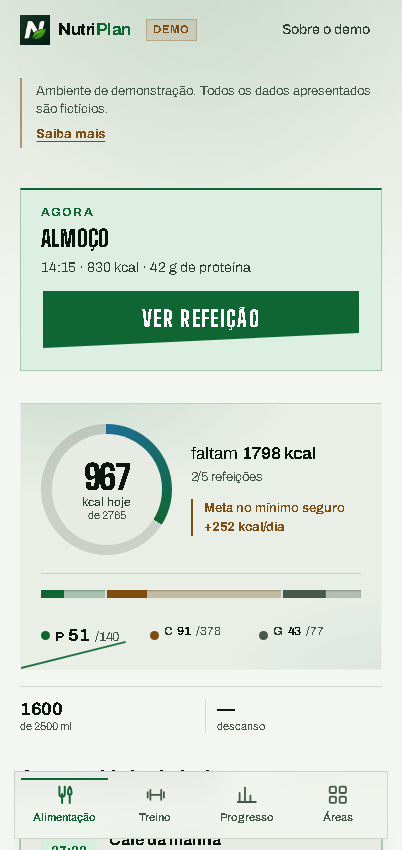
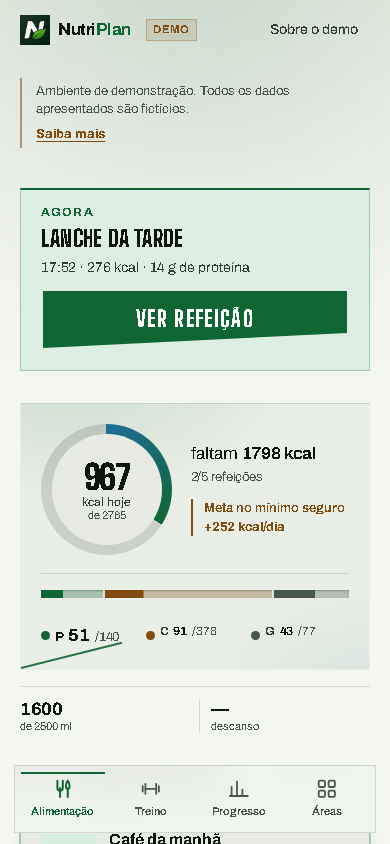
Landing: comando que regenera as capturas + trava de frescor
Decisão 3 da avaliação de UX (20/09/2026): as três provas da landing são
screenshots do demo, e screenshot envelhece quando a tela muda. Agora há um
comando de gestão que as regenera e um teste que reprova quando elas ficam
velhas atrás do `app.css`.

- `manage.py capturas_landing` (plans/management/commands): regenera as três
  a 390 px, tema Papel (claro), pelo navegador de QA (scripts/qa/nav.py, CDP),
  achando a ficha por link. Por padrão captura da PRODUÇÃO (o demo está sempre
  no ar); `--base-url` aponta para outro lugar. Precisa de um Chrome, então
  NÃO roda no build gratuito do Render (sem navegador lá) — é comando local/CI
  antes de recomitar as imagens.
- `plans/test_capturas_landing.py`: reprova quando o último commit do
  `app.css` é mais de 14 dias mais NOVO que a captura mais velha (data do
  COMMIT, não mtime). Sabotagem confirmada (tolerância negativa → vermelho).
- As três capturas foram regeneradas a 390 px (eram 402), e o template
  acompanhou (width/height 390×844).

diff --git a/templates/plans/landing.html b/templates/plans/landing.html
@@ -44,7 +44,7 @@
   {% endcomment %}
   <figure class="card landing__prova">
     <img class="landing__prova__img" src="{% static 'img/landing/prova-dia.png' %}"
-         alt="Tela do dia: refeições, calorias, água e o treino de hoje numa lista só." width="402" height="850" loading="lazy">
+         alt="Tela do dia: refeições, calorias, água e o treino de hoje numa lista só." width="390" height="844" loading="lazy">
     <figcaption>
       <strong>O dia inteiro numa tela.</strong>
       Refeições, calorias, água e o treino de hoje — o que fazer agora fica no topo.
@@ -53,7 +53,7 @@
 
   <figure class="card landing__prova">
     <img class="landing__prova__img" src="{% static 'img/landing/prova-treino.png' %}"
-         alt="Ficha de treino: exercícios do dia com séries, repetições e o principal marcado." width="402" height="850" loading="lazy">
+         alt="Ficha de treino: exercícios do dia com séries, repetições e o principal marcado." width="390" height="844" loading="lazy">
     <figcaption>
       <strong>A ficha montada para você.</strong>
       Exercícios, séries e cargas calculados pelos seus dias e pelo seu equipamento.
@@ -62,7 +62,7 @@
 
   <figure class="card landing__prova">
     <img class="landing__prova__img" src="{% static 'img/landing/prova-progresso.png' %}"
-         alt="Progresso: peso ao longo das semanas e a evolução das cargas do treino." width="402" height="850" loading="lazy">
+         alt="Progresso: peso ao longo das semanas e a evolução das cargas do treino." width="390" height="844" loading="lazy">
     <figcaption>
       <strong>Seu progresso, medido.</strong>
       Peso, cargas e a sequência de dias em dia — o que mudou fica à vista.

diff --git a/plans/management/commands/capturas_landing.py b/plans/management/commands/capturas_landing.py
@@ -1,0 +1,91 @@
+# -*- coding: utf-8 -*-
+"""Regenera as três provas da landing a partir do demo (decisão 3 da avaliação
+de UX, 20/09/2026).
+
+As provas (`static/img/landing/prova-*.png`) são screenshots do DEMO — o
+produto de verdade, sobre um usuário fictício. Este comando as refaz a 390 px
+de largura, no tema Papel (claro), pelo navegador headless de QA
+(`scripts/qa/nav.py`, CDP). Como precisa de um Chrome, ele NÃO roda no build
+gratuito do Render (sem navegador lá): é um comando de gestão, rodado local ou
+em CI antes de recomitar as imagens. O teste
+`plans/test_capturas_landing.py` reprova quando elas ficam velhas demais em
+relação ao `app.css`, para ninguém esquecer de rodá-lo depois de mexer no
+visual.
+
+Por padrão captura da PRODUÇÃO (o demo está sempre no ar); `--base-url` aponta
+para outro lugar (um servidor local, por exemplo).
+"""
+import json
+import subprocess
+import sys
+from pathlib import Path
+
+from django.conf import settings
+from django.core.management.base import BaseCommand, CommandError
+
+NAV = Path(settings.BASE_DIR) / "scripts" / "qa" / "nav.py"
+SESSAO = "capturas-landing"
+LARGURA, ALTURA = 390, 844
+
+#: (arquivo, caminho no demo ou None para a ficha que se resolve por link).
+ALVOS = (
+    ("prova-dia.png", "/demo/hoje/"),
+    ("prova-treino.png", None),   # a ficha de um treino, achada por link
+    ("prova-progresso.png", "/demo/historico/"),
+)
+
+
+class Command(BaseCommand):
+    help = "Regenera as três capturas da landing a partir do demo (390px, tema Papel)."
+
+    def add_arguments(self, parser):
+        parser.add_argument(
+            "--base-url", default="https://nutriplan-xxfn.onrender.com",
+            help="Origem do demo (padrão: produção).",
+        )
+
+    def _nav(self, *args, ler=False):
+        saida = subprocess.run(
+            [sys.executable, str(NAV), SESSAO, *args],
+            capture_output=True, text=True,
+        )
+        if saida.returncode != 0:
+            raise CommandError("nav.py %s falhou: %s" % (args[0], saida.stderr.strip() or saida.stdout.strip()))
+        return saida.stdout.strip() if ler else None
+
+    def handle(self, *args, **options):
+        base = options["base_url"].rstrip("/")
+        destino = Path(settings.BASE_DIR) / "static" / "img" / "landing"
+        destino.mkdir(parents=True, exist_ok=True)
+        if not NAV.exists():
+            raise CommandError("scripts/qa/nav.py não encontrado — o QA de navegador é o que captura.")
+
+        try:
+            self._nav("viewport", str(LARGURA), str(ALTURA))
+            self._nav("tema", "claro")   # Papel
+            for arquivo, caminho in ALVOS:
+                url = self._url_do_treino(base) if caminho is None else base + caminho
+                self._nav("open", url)
+                self._nav("screenshot", str(destino / arquivo))
+                self.stdout.write("  %s <- %s" % (arquivo, url))
+        finally:
+            self._nav("close")
+        self.stdout.write(self.style.SUCCESS("Três capturas regeneradas em %s" % destino))
+
+    def _url_do_treino(self, base):
+        """A ficha de um treino, achada por LINK no painel — o id muda a cada
+        seed, então não dá para fixá-lo. Pega o primeiro link de ficha."""
+        self._nav("open", base + "/demo/treino/")
+        href = self._nav(
+            "eval",
+            "(document.querySelector('a[href*=\"ficha\"]')||{}).getAttribute&&"
+            "document.querySelector('a[href*=\"ficha\"]').getAttribute('href')",
+            ler=True,
+        )
+        try:
+            caminho = json.loads(href)
+        except (json.JSONDecodeError, TypeError):
+            caminho = None
+        if not caminho:
+            raise CommandError("não achei um link de ficha em /demo/treino/")
+        return base + caminho if caminho.startswith("/") else caminho

diff --git a/plans/test_capturas_landing.py b/plans/test_capturas_landing.py
@@ -1,0 +1,54 @@
+# -*- coding: utf-8 -*-
+"""As capturas da landing não podem envelhecer atrás do design (decisão 3 da
+avaliação de UX, 20/09/2026).
+
+As três provas da landing (`static/img/landing/prova-*.png`) são screenshots
+do demo. Screenshot envelhece quando a tela muda — e o design mora em
+`app.css`. Este teste falha quando o último commit que mexeu no `app.css` é
+mais de `TOLERANCIA_DIAS` mais NOVO que a captura mais velha: sinal de que o
+visual mudou e ninguém rodou `manage.py capturas_landing`.
+
+Usa a data do COMMIT (git), não o mtime do arquivo — mtime muda a cada
+checkout e não diz nada sobre o conteúdo.
+"""
+import subprocess
+from pathlib import Path
+
+from django.conf import settings
+from django.test import SimpleTestCase
+
+#: Duas semanas. A captura não precisa acompanhar cada ajuste de tinta, mas
+#: não pode ficar meses atrás de uma mudança de layout.
+TOLERANCIA_DIAS = 14
+
+CAPTURAS = ("prova-dia.png", "prova-treino.png", "prova-progresso.png")
+
+
+def _commit_ct(caminho):
+    """Unixtime do último commit que tocou `caminho`, ou None se não versionado."""
+    saida = subprocess.run(
+        ["git", "log", "-1", "--format=%ct", "--", caminho],
+        cwd=str(settings.BASE_DIR), capture_output=True, text=True,
+    ).stdout.strip()
+    return int(saida) if saida else None
+
+
+class AsCapturasNaoEnvelhecemAtrasDoDesign(SimpleTestCase):
+    def test_as_capturas_nao_estao_velhas_demais_em_relacao_ao_app_css(self):
+        base = Path(settings.BASE_DIR) / "static" / "img" / "landing"
+        css = _commit_ct("static/css/app.css")
+        self.assertIsNotNone(css, "app.css não está versionado?")
+
+        for nome in CAPTURAS:
+            caminho = base / nome
+            with self.subTest(captura=nome):
+                self.assertTrue(caminho.exists(), "captura sumiu: %s" % nome)
+                ct = _commit_ct("static/img/landing/%s" % nome)
+                self.assertIsNotNone(ct, "captura não commitada: %s" % nome)
+                atraso_dias = (css - ct) / 86400
+                self.assertLessEqual(
+                    atraso_dias, TOLERANCIA_DIAS,
+                    "%s está %.0f dias atrás do último commit de app.css — "
+                    "rode `manage.py capturas_landing` e recomite as três."
+                    % (nome, atraso_dias),
+                )
